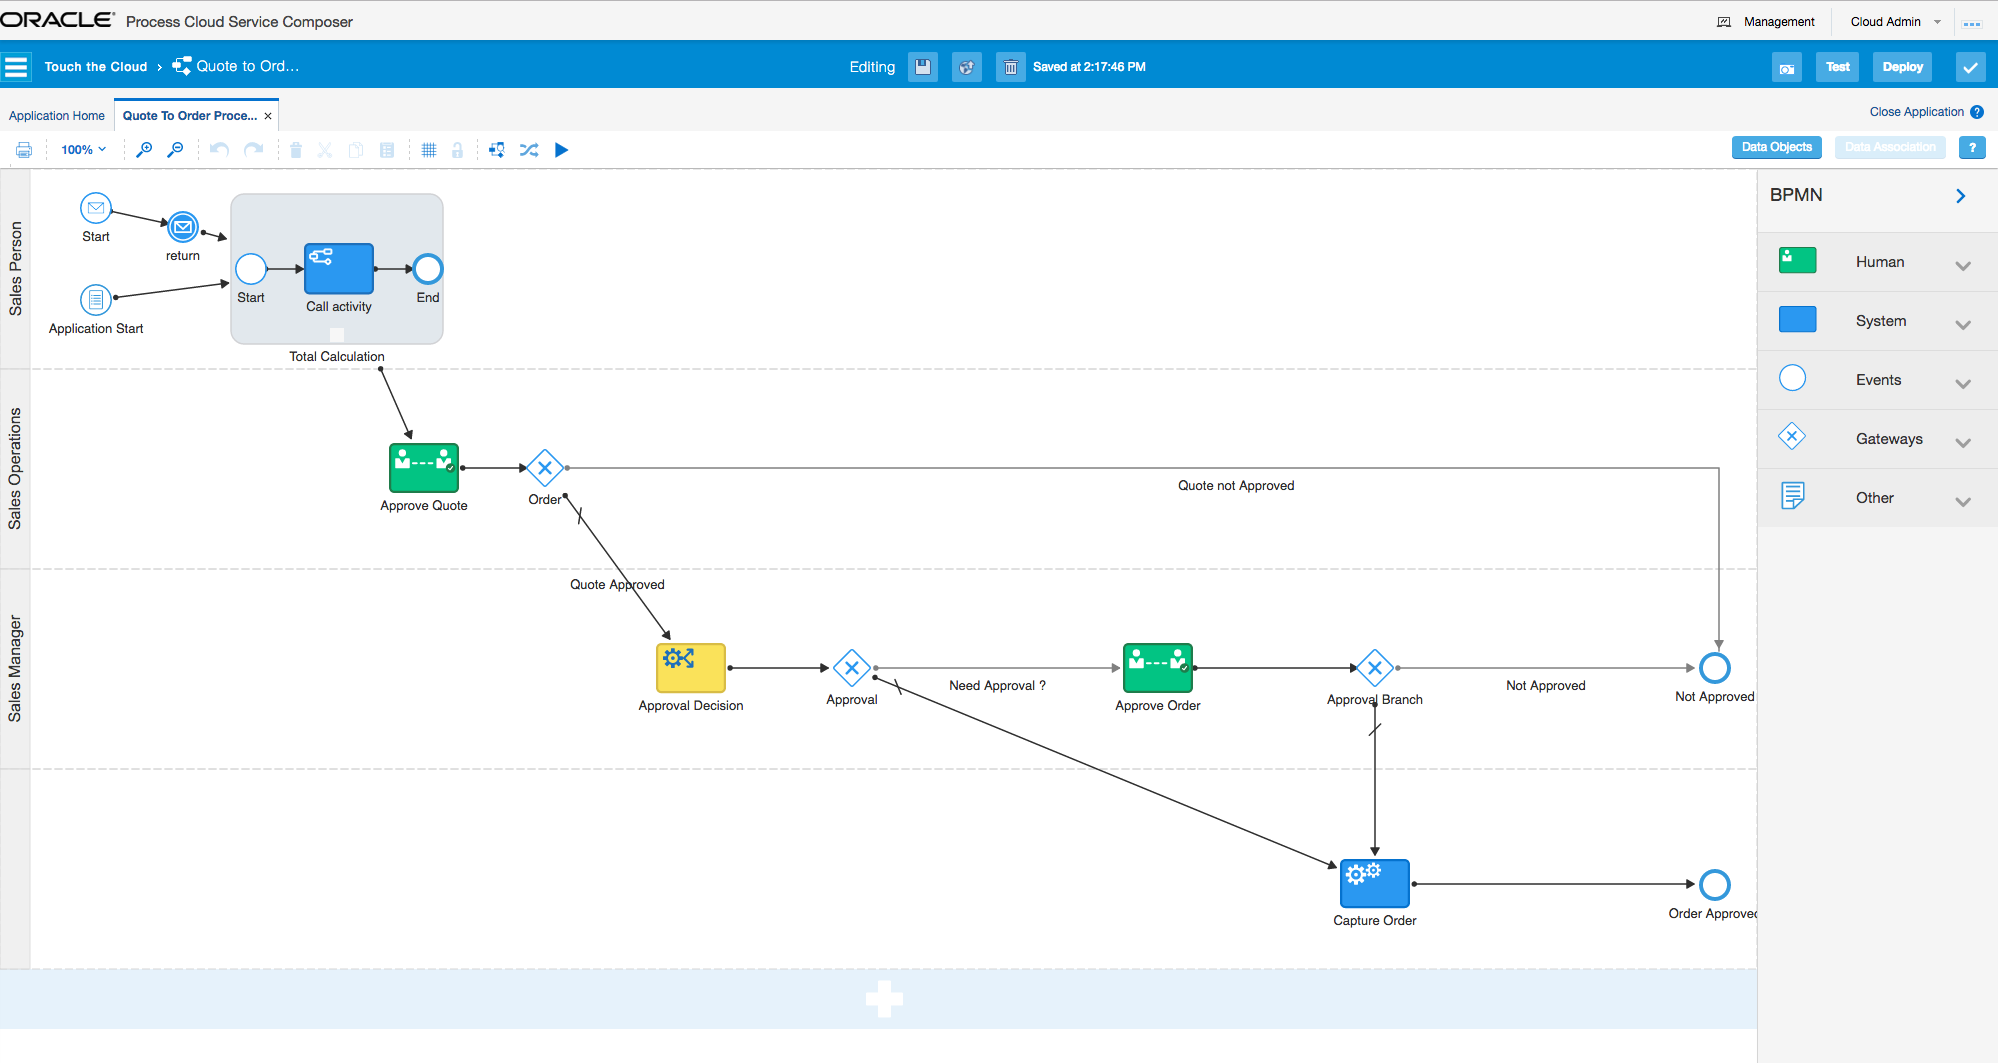
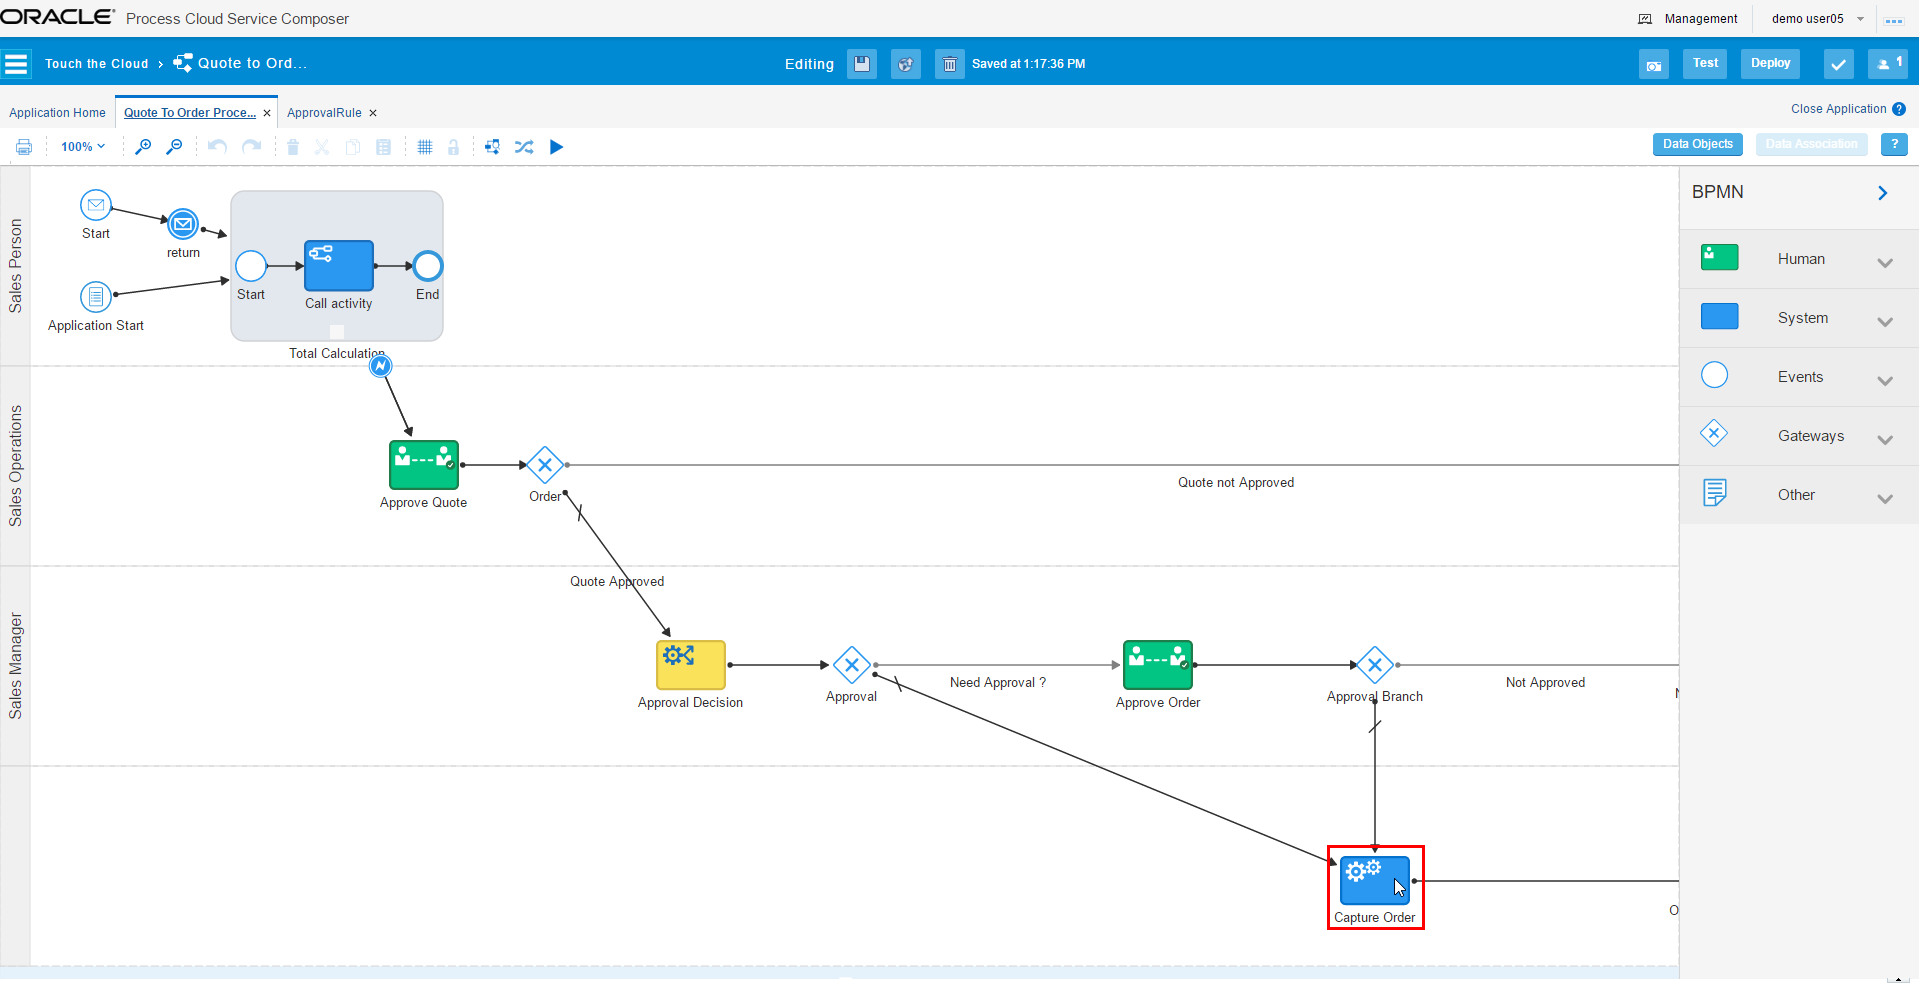
Changes to lab 200

diff --git a/touch-the-cloud/TouchTheCloud200.md b/touch-the-cloud/TouchTheCloud200.md
@@ -285,23 +285,27 @@ In the next couple of steps we are going to extend the Quote to Order. To be saf
 
 ### **5**: Process Model
 
-**5.1** Next step is to add the comment. Click on the process to open up the process model, if not already open.
+**5.1** Next step is to add the comment. Go back to the **Quote to Order Process** process by selecting the tab next to the **ApprovalRule** that you just worked on.
+
+![](images/200/Picture37a.png)
+
+**5.2** Now, click on the process to open up the process model, if not already open.
 
 ![](images/200/Picture28.png)
 
-**5.2** Click on the Capture Order - the blue activity at the bottom right of the model. If nerequired, you can drag the model by clicking on any open space and drag the model to the left, to see the activity.
+**5.3** Click on the Capture Order - the blue activity at the bottom right of the model. If nerequired, you can drag the model by clicking on any open space and drag the model to the left, to see the activity.
 
 ![](images/200/Picture29.png)
 
-**5.3** Click on hamburger icon and select ***Open Data Association***
+**5.4** Click on hamburger icon and select ***Open Data Association***
 
 ![](images/200/Picture30.png) 
 
 ![](images/200/Picture31.png)
 
-**5.4** Now that we are in the Data Association page, we can assign the comment 
+**5.5** Now that we are in the Data Association page, we can assign the comment 
 
-Expand the ***Process Data***, ***CreateOrderRequest*** and also the ***header***,  elements. 
+On the source side of the mapping, expand the ***Process Data*** element.  On the target side, expand the ***CreateOrderRequest*** and also the ***header***,  elements. 
 Drag ***mcs_id*** in the first open slot in the left hand side, and drag ***comment*** next to ***mcs_id*** to complete the assignment  
 
 ![](images/200/Picture32.png)
@@ -310,7 +314,9 @@ For clarity :
 
 ![](images/200/Picture73.png)
 
-**5.5** Click **Apply**
+**5.6** Click **Apply** in the upper right of the Data Association window.
+
+![](images/200/Picture73a.png)
 
 ### **6**: Adding Approvals
 
@@ -332,9 +338,9 @@ For clarity :
 
 ![](images/200/Picture42.png)
 
-**6.5** Drag the existing connection from **Approval** to the **User Task**
+**6.5** Create a new connection from **Approval** to the **User Task**.  Create a new condition from the Approval gateway and drag it on top of the new **User task**
 
-![](images/200/Picture43.png)
+![](images/200/Picture42a.png)
 
 **6.6** Select the new activity, and change the name, by double clicking on the text **User Task**
 
@@ -344,21 +350,21 @@ For clarity :
 
 ![](images/200/Picture45.png)
 
-Fill in Form, Presentation, Action and Title
+**6.8** Fill in `Form`, `Presentation`, `Action` and `Title`
 
 ![](images/200/Picture46.png)
 
-**6.8** Drag an exclusive gateway into the model, connect the human task **Sales Director Approval** with the gateway, then the gateway to the **Capture Order**, using the connector icon to create the connections
+**6.9** Drag an exclusive gateway into the model, connect the human task **Sales Director Approval** with the gateway, then the gateway to the **Capture Order**, using the connector icon to create the connections
 
 ![](images/200/Picture47.png)
 
 ![](images/200/Picture48.png)
 
-**6.9** Connect the gateway to the **Not Approved end** activity. Feel free to move the activities around to make it more readable
+**6.10** Connect the gateway to the **Not Approved end** activity. Feel free to move the activities around to make it more readable
 
 ![](images/200/Picture49.png)
 
-**6.10** With Connection highlighted, edit the properties and supply the following information, to test if the approval was rejected, by setting the condition to be **TaskOutcomeDataObject == "REJECT"**.
+**6.11** With Connection highlighted, edit the properties and supply the following information, to test if the approval was rejected, by setting the condition to be **TaskOutcomeDataObject == "REJECT"**.
 
 ![](images/200/Picture50.png)
 
